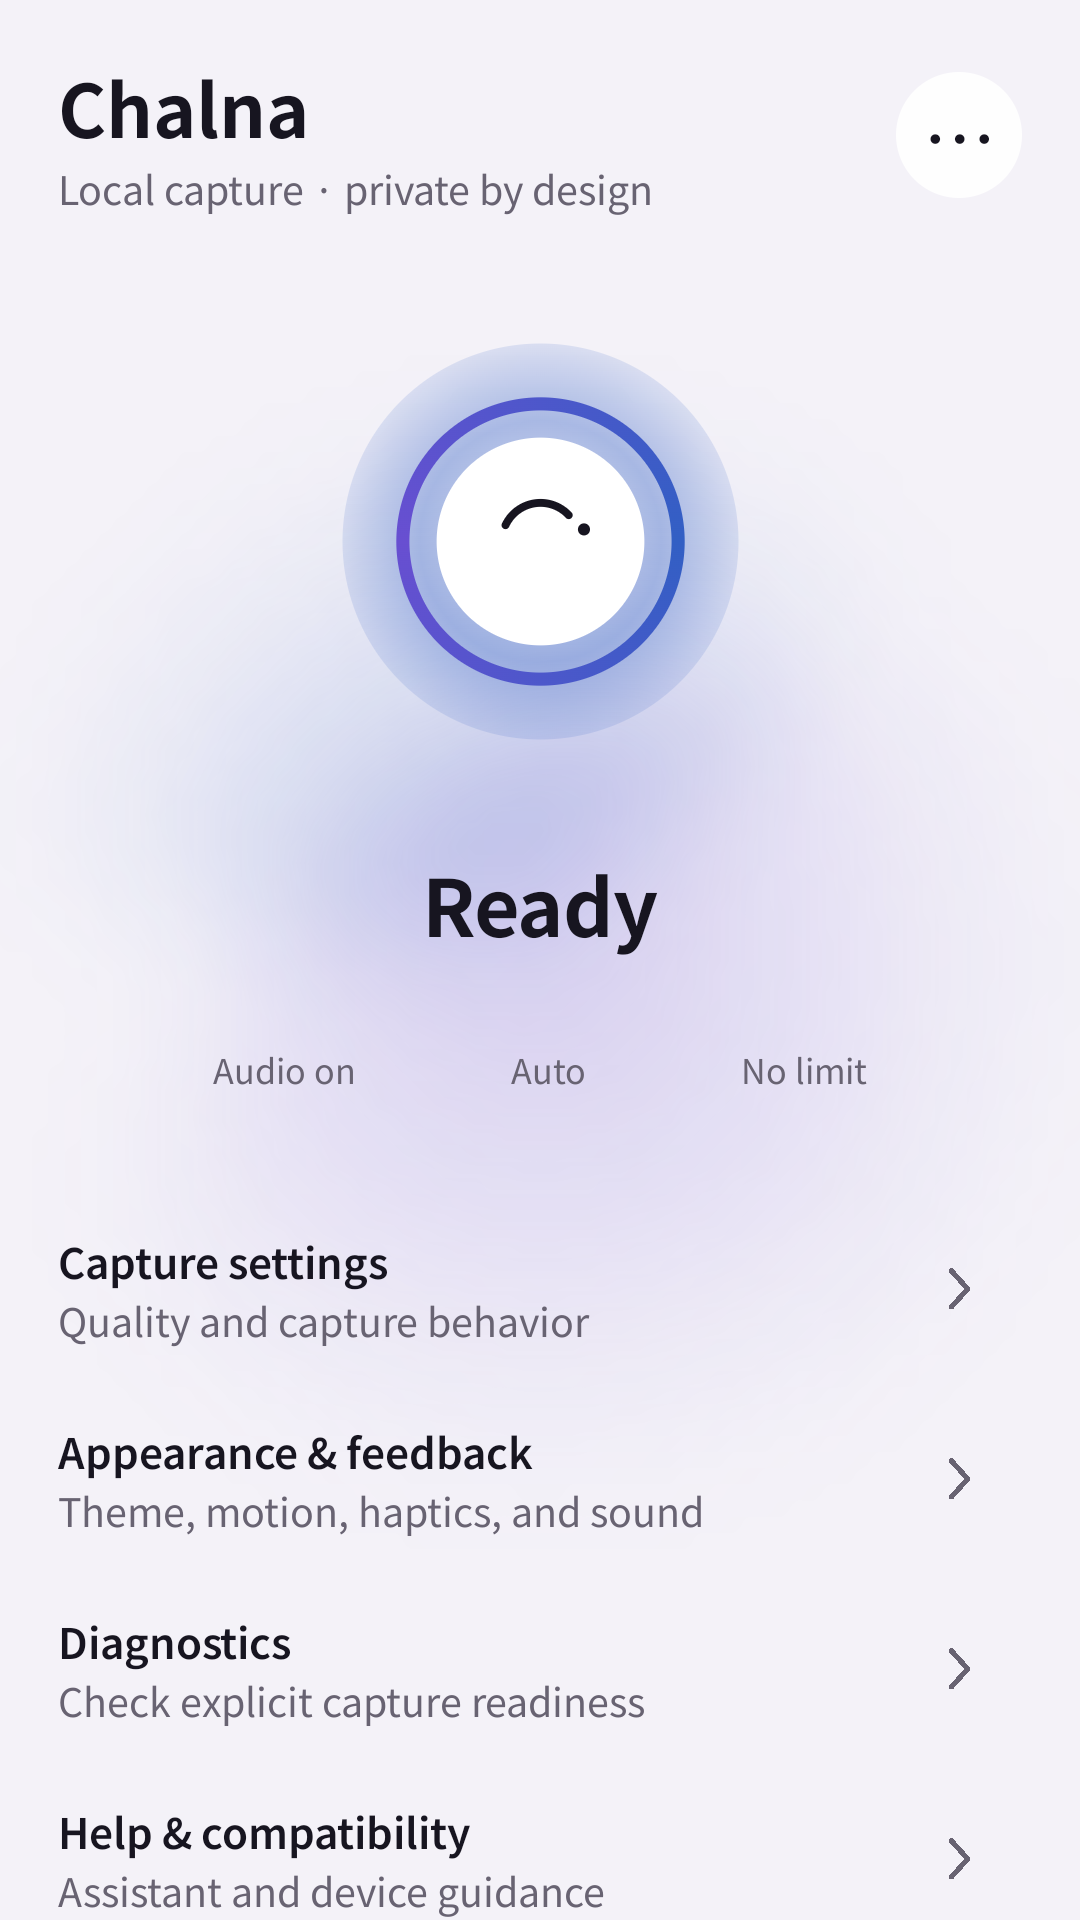
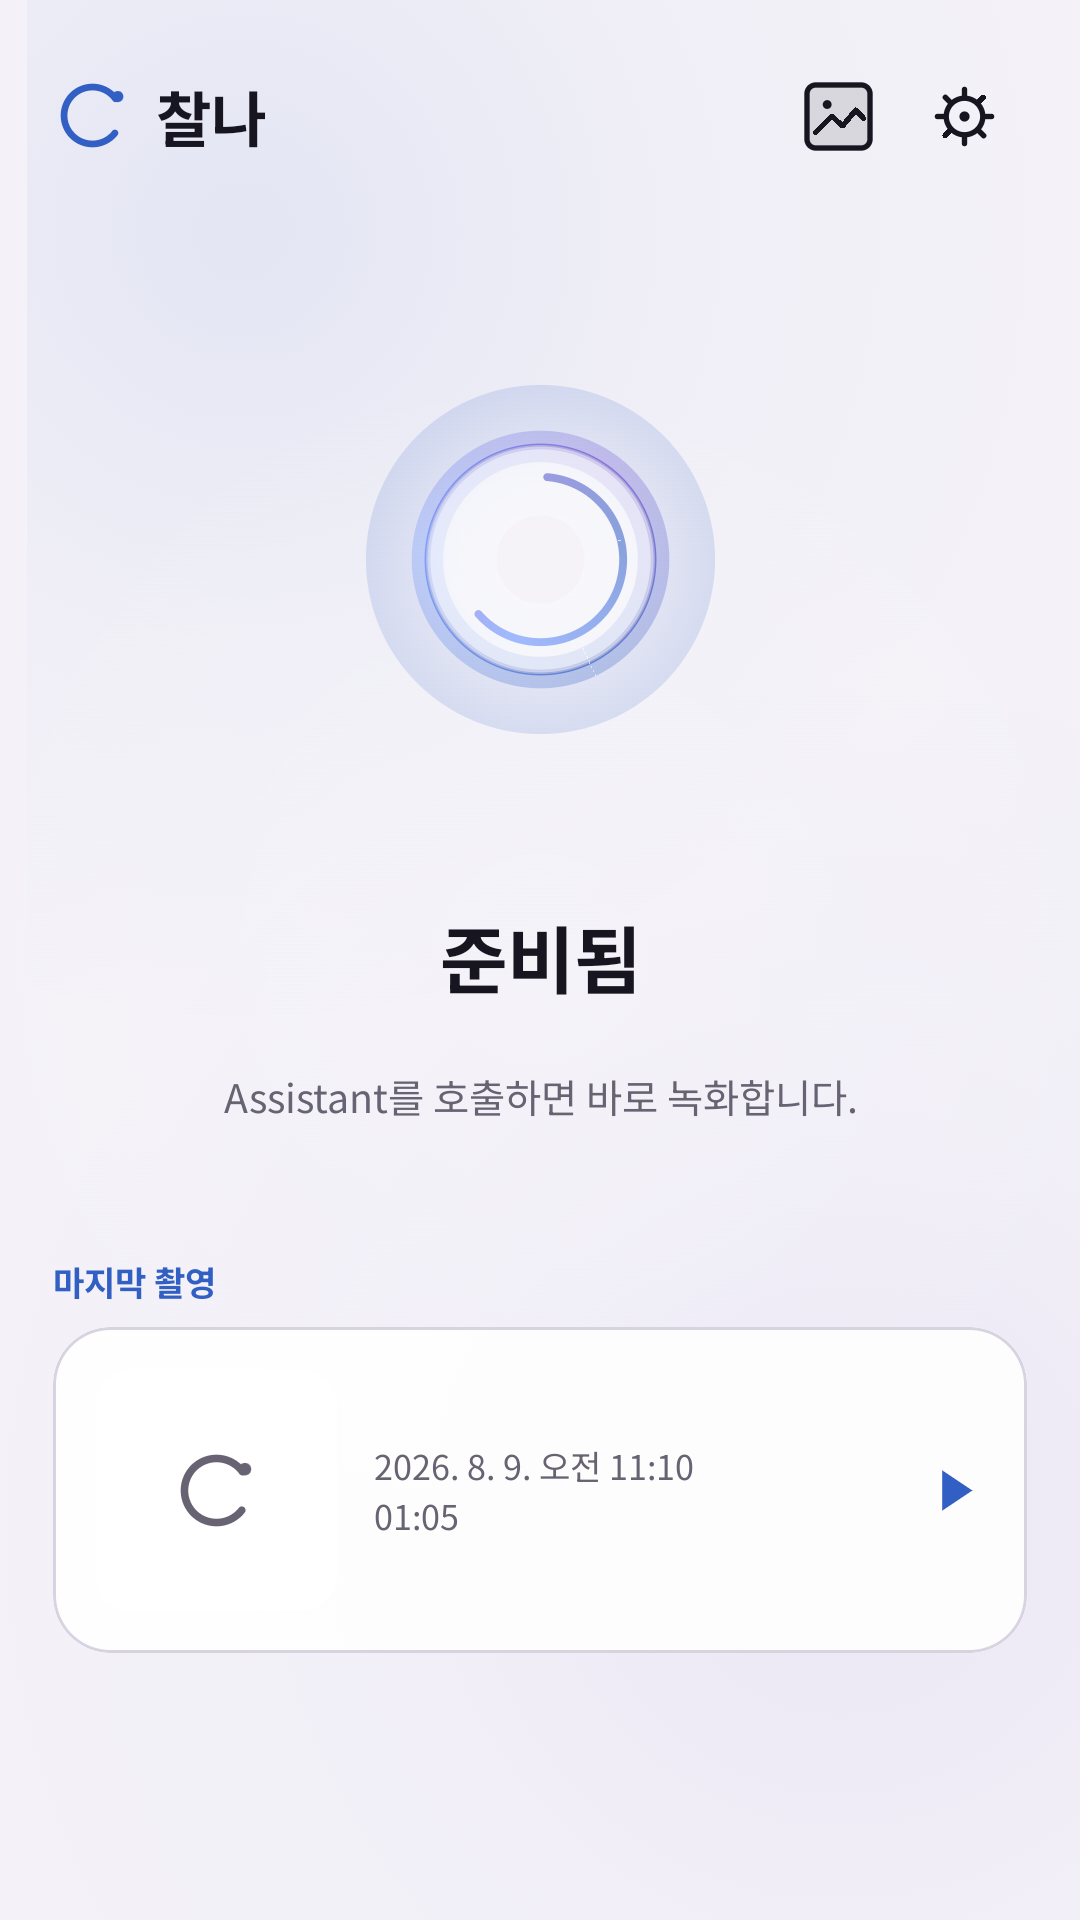
docs: publish refined v1.1 visual evidence

diff --git a/docs/QA_REPORT.md b/docs/QA_REPORT.md
@@ -1,38 +1,38 @@
 # QA report
 
-Report date: 2026-08-09. Android compilation and tests ran only on GitHub-hosted runners, per repository policy.
+Report date: 2026-08-10. Android compilation and tests ran only on GitHub-hosted runners, per repository policy.
 
 ## v1.1.0 status
 
-Current source targets v1.1.0/version code 2. Its gallery, Chalna Vault, local Media3 player, Diagnostics/VisualLab removal, gallery/glow/icon screenshots, signing continuity, APK policy, and immutable-release verification are **Pending verification**. The evidence below is the immutable v1.0.0 baseline and must not be presented as proof of v1.1.0.
+The v1.1.0 source candidate at `6aa2cc9aa5e17f6c1d328ed24247325f271e9b07` passed Android CI and UI QA. It includes the capture library, Chalna Vault, local Media3 player, release-only Diagnostics/VisualLab exclusion, direct setup actions, optional notification readiness, refined invocation glow, and adaptive-icon mask matrix. Selected output images from that exact UI run are committed under `docs/screenshots/`.
 
 ## Remote evidence
 
 | Area | Result | Evidence |
 |---|---|---|
-| Policy and dependency audit | Pass | Android CI [31311630513](https://github.com/sampple-korea/chalna-android/actions/runs/31311630513) |
-| Formatting and static analysis | Pass | same run; repository scripts returned success |
-| Android Lint | Pass, warnings-as-errors | same run; downloaded `lint-results-release` reports inspected |
-| JVM tests | 13 passed, 0 failed, 0 skipped | downloaded `testDebugUnitTest` HTML from run 31311630513 |
-| Debug APK | Built and archived | `android-ci-31311630513` artifact |
-| Instrumentation | 18 passed | UI QA [31311630522](https://github.com/sampple-korea/chalna-android/actions/runs/31311630522), API 34 AOSP ATD |
-| Screenshot suite | 15 passed independently | same run; instrumentation log ended `OK (15 tests)` and contained no failure marker |
-| Install/launch smoke | Pass | same API 34 emulator run; application process verified |
-| Visual review | Pass after deliberate refinement | downloaded artifact `ui-qa-api-34-31311630522`; five selected PNGs committed under `docs/screenshots/` |
+| Policy and dependency audit | Pass | Android CI [31322147848](https://github.com/sampple-korea/chalna-android/actions/runs/31322147848) |
+| Formatting and static analysis | Pass | same run; all repository policy scripts returned success |
+| Android Lint | Pass, warnings-as-errors | downloaded report states `No issues found.` |
+| JVM tests | 32 passed, 0 failed, 0 errors, 0 skipped | five downloaded JUnit XML suites from run 31322147848 |
+| Debug APK | Built and archived | `android-ci-31322147848` artifact |
+| Instrumentation | 44 passed | UI QA [31322147867](https://github.com/sampple-korea/chalna-android/actions/runs/31322147867), API 34 AOSP ATD |
+| Deterministic screenshot suite | 38 passed independently | same run; required-name/non-empty artifact gate also passed |
+| Install/launch smoke | Pass | same API 34 emulator run; package launch and process check passed |
+| Visual review | Pass after two rendered refinement passes | 38 PNGs downloaded and inspected across Home, Setup, Settings, Gallery, Player, glow frames, icon masks, Night/Mist, and 200% font |
 
-The v1.1.0 release commit must repeat Android CI and UI QA. APK signing, alignment, package/version, merged-permission, immutable-release, re-download, checksum, and signature evidence is emitted by `.github/workflows/release.yml` into the immutable Release and `chalna-v1.1.0-build-info.json` asset.
+APK signing, alignment, package/version, merged-permission, immutable-release, re-download, checksum, and signature evidence is emitted by `.github/workflows/release.yml` into the immutable Release and `chalna-v1.1.0-build-info.json` asset.
 
 ## Visual findings and fixes
 
-The first rendered pass showed an all-cool recording action, a cool error ring, default screenshot settings inconsistent with product defaults, and a variable font rendered at its thin default axis. The refinement pass introduced recording rose/coral energy, amber/coral error Aura, a solid stop control, Auto quality/audio-on defaults, explicit Noto Sans Korean weight axes, a five-step setup flow, and a 15-state screenshot matrix. Night and Mist were then re-rendered and inspected for hierarchy, wrapping, contrast, glow intensity, system insets, icon weight, and clipping.
+The v1.1 first pass exposed a generic concentric status orb, oversized standalone gallery filters, card-heavy player actions, English-only review captures, flat hotspot discs in the perimeter glow, and setup-state screenshots that did not reveal their relevant rows. Refinement replaced the orb with a hollow angular capture instrument, consolidated the gallery filter into one compact segmented control, removed player-action cards, forced deterministic Korean resources, added same-day grid density, used cached radial hotspot shaders, increased Mist-theme optical definition, and made player metadata vertically scrollable. The regenerated matrix was then inspected for spacing, wrapping, contrast, glow falloff, cutout/corner handling, icon optical margins, selection clarity, and 200% font behavior.
 
 ## Source/security audit
 
-- v1.0.0 manifest contains no `INTERNET`, location, contacts, SMS, call-log, broad-storage, overlay, accessibility-service, or boot-start permission/receiver. v1.1.0 additionally requires proof that `READ_MEDIA_VIDEO` is absent.
+- The v1.1.0 manifest contains no `INTERNET`, `READ_MEDIA_VIDEO`, location, contacts, SMS, call-log, broad-storage, overlay, accessibility-service, or boot-start permission/receiver.
 - Material 2/3, Google Material, Material icon, and ripple imports/dependencies are blocked by CI policy.
 - Camera provider acquisition, binding, Recorder preparation, and audio enablement occur only after an explicit service dispatch. No pre-capture, pre-buffer, camera warm-up, persistent binding, or hidden notification path was found.
 - Voice assist structures/screenshots are ignored. Components are non-exported unless the Android voice-interaction contract requires system binding.
-- Final audit fixes added live prerequisite reconciliation, microphone-gated audio enablement, stale MediaStore validation, timeout/finalize cleanup, and step-scoped release secrets.
+- Final audit fixes added live prerequisite reconciliation, microphone-gated audio enablement, stale MediaStore/Vault validation, durable active-attempt recovery, timeout/finalize cleanup, next-capture destination snapshots, and step-scoped release secrets.
 
 ## Physical-device-only validation
 

diff --git a/README.md b/README.md
@@ -4,7 +4,7 @@ Chalna is a private Android 10+ application that turns an invocation of the user
 
 ## Status
 
-The immutable v1.0.0 release is the verified baseline. Current source targets v1.1.0 (`versionCode` 2); its new CI, UI, signing, and release evidence is pending and must not be inferred from v1.0.0 runs. Physical Assistant-button, locked-screen OEM, camera-hardware latency, thermal, and high-refresh-rate results remain device-only checks; see the [QA report](docs/QA_REPORT.md).
+Version 1.1.0 (`versionCode` 2) is the current signed update. Its private immutable Release contains the APK, checksum, and machine-readable build metadata. GitHub Actions is the build source of truth; physical Assistant-button, locked-screen OEM, camera-hardware latency, thermal, and high-refresh-rate results remain device-only checks documented in the [QA report](docs/QA_REPORT.md).
 
 ## Product contract
 
@@ -21,7 +21,7 @@ The immutable v1.0.0 release is the verified baseline. Current source targets v1
 
 1. Install a verified APK on Android 10 (API 29) or newer.
 2. Open Chalna and grant Camera permission. Grant Microphone only if audio is enabled; grant Notifications where Android requests it.
-3. In Android system settings, select Chalna as the default digital assistant app.
+3. Use Chalna's Assistant action to open the system role picker and select Chalna as the default digital assistant app.
 4. Choose Device Gallery or Chalna Vault for future recordings.
 5. Invoke the configured Assistant gesture to start recording. Confirm the visible recording state/notification.
 6. Invoke again or use the notification Stop action to finalize the video, then use Chalna's local library to play or manage it.
@@ -38,17 +38,23 @@ The project pins AGP 9.3.1, Gradle 9.5.0, Kotlin 2.3.21, Compose BOM 2026.06.00,
 - [Design system](docs/DESIGN_SYSTEM.md) · [Motion](docs/MOTION.md) · [Compatibility](docs/COMPATIBILITY.md)
 - [Privacy](PRIVACY.md) · [Security](SECURITY.md) · [Third-party notices](THIRD_PARTY_NOTICES.md)
 
-## v1.0.0 baseline screenshots
+## v1.1.0 product screenshots
 
-These are actual deterministic Compose captures downloaded from UI QA run 31311630522, inspected, refined, regenerated, and committed without mockup tooling.
+These are deterministic Korean Compose captures downloaded from [UI QA run 31322147867](https://github.com/sampple-korea/chalna-android/actions/runs/31322147867). The first rendered pass was inspected, deliberately refined, regenerated, and inspected again; no mockup tooling or fabricated product content was used.
 
-| Ready · Night | Recording · Night |
+| Ready · Mist | Recording · Night |
 |---|---|
-| ![Ready in Night theme](docs/screenshots/home-ready-night.png) | ![Recording in Night theme](docs/screenshots/home-recording-night.png) |
+| ![Ready in Mist theme](docs/screenshots/home-ready-mist.png) | ![Recording in Night theme](docs/screenshots/home-recording-night.png) |
 
-| Ready · Mist | Camera setup · Mist |
+| Gallery · Night | Player details · Night |
 |---|---|
-| ![Ready in Mist theme](docs/screenshots/home-ready-mist.png) | ![Camera setup in Mist theme](docs/screenshots/setup-camera-mist.png) |
+| ![Chalna capture gallery](docs/screenshots/gallery-night.png) | ![Custom local player details](docs/screenshots/player-info-night.png) |
+
+| Settings · Night | Invocation glow on colorful content |
+|---|---|
+| ![Consolidated Chalna settings](docs/screenshots/settings-night.png) | ![Chalna Invocation Glow](docs/screenshots/glow-start-tall-colorful-night.png) |
+
+The adaptive icon's Galaxy-like squircle mask is also preserved as an inspected artifact: [icon mask preview](docs/screenshots/icon-mask-squircle.png).
 
 ## Authoritative references
 

diff --git a/PLANS.md b/PLANS.md
@@ -33,8 +33,10 @@ Prepare a private, signed, immutable v1.1.0 update that adds local capture manag
 
 ## Exit criteria
 
-- Android CI and UI QA are green for the exact release commit and their artifacts are inspected.
-- Release workflow logs and downloaded assets prove package/signing continuity, version code `2`, checksum integrity, and immutable-release verification.
+- Android CI [31322147848](https://github.com/sampple-korea/chalna-android/actions/runs/31322147848) is green: policy, formatting, static analysis, resolved dependency inspection, lint, 32 JVM tests, and debug APK passed.
+- UI QA [31322147867](https://github.com/sampple-korea/chalna-android/actions/runs/31322147867) is green: 44 connected tests, an independent 38-frame deterministic screenshot pass, required artifact checks, and install/launch smoke passed.
+- All 38 rendered PNGs were downloaded. Home, Gallery, Player, Settings, Glow, icon masks, Night/Mist, and 200% font captures were directly inspected after a deliberate refinement pass; selected exact outputs are committed in `docs/screenshots/`.
+- The release workflow must prove package/signing continuity, version code `2`, checksum integrity, published immutable-release verification, and remote APK identity before completion. Its signed `build-info` asset is the durable release ledger.
 - Device Gallery and Chalna Vault recording, playback, export/share/delete, OEM Assistant invocation, keyguard delivery, hardware latency, thermal/battery behavior, and accessibility remain explicitly unverified until corresponding CI or physical-device evidence exists.
 
-No v1.1.0 completion, test, signing, or publication claim is valid before those artifacts are inspected.
+No signing or publication claim is valid before the release workflow and re-downloaded artifact are inspected.

diff --git a/CHANGELOG.md b/CHANGELOG.md
@@ -2,7 +2,7 @@
 
 This file records repository changes, not unverified release claims. Dates use ISO 8601.
 
-## [1.1.0] - Unreleased
+## [1.1.0] - 2026-08-10
 
 ### Added
 
@@ -10,11 +10,16 @@ This file records repository changes, not unverified release claims. Dates use I
 - Explicit Device Gallery and Chalna Vault destinations. Device Gallery uses MediaStore; Vault uses app-private storage and does not imply encryption.
 - Stable AndroidX Media3 1.11.0 ExoPlayer with Chalna-owned Foundation controls for local playback.
 - Gallery, player-glow, and custom-icon screenshot coverage plus archived JVM test XML.
+- Direct runtime-permission, Assistant-role, app-settings, and notification-settings actions with automatic resume refresh.
+- Galaxy-squircle-safe adaptive icon previews and a debug-only Visual Lab excluded from release artifacts.
 
 ### Changed
 
 - Package remains `app.chalna.capture`; version code advances from 1 to 2.
 - Production Diagnostics and VisualLab surfaces are removed.
+- Home is reduced to capture state, Gallery, Settings, and an optional last-capture preview; Settings are consolidated into Capture, Experience, System, and App sections.
+- Notification permission is optional for readiness and capture; Android's required foreground-service notification API remains in use.
+- Invocation feedback now uses transient cached three-layer perimeter optics, while recording state uses only the central capture instrument instead of a persistent edge border.
 - Policy rejects `READ_MEDIA_VIDEO`, Media3 Material 3 UI, production Diagnostics/VisualLab, and the existing Material/network violations.
 - Release verification pins signer continuity to v1.0.0 and retries bounded immutable-attestation propagation before failing.
 
